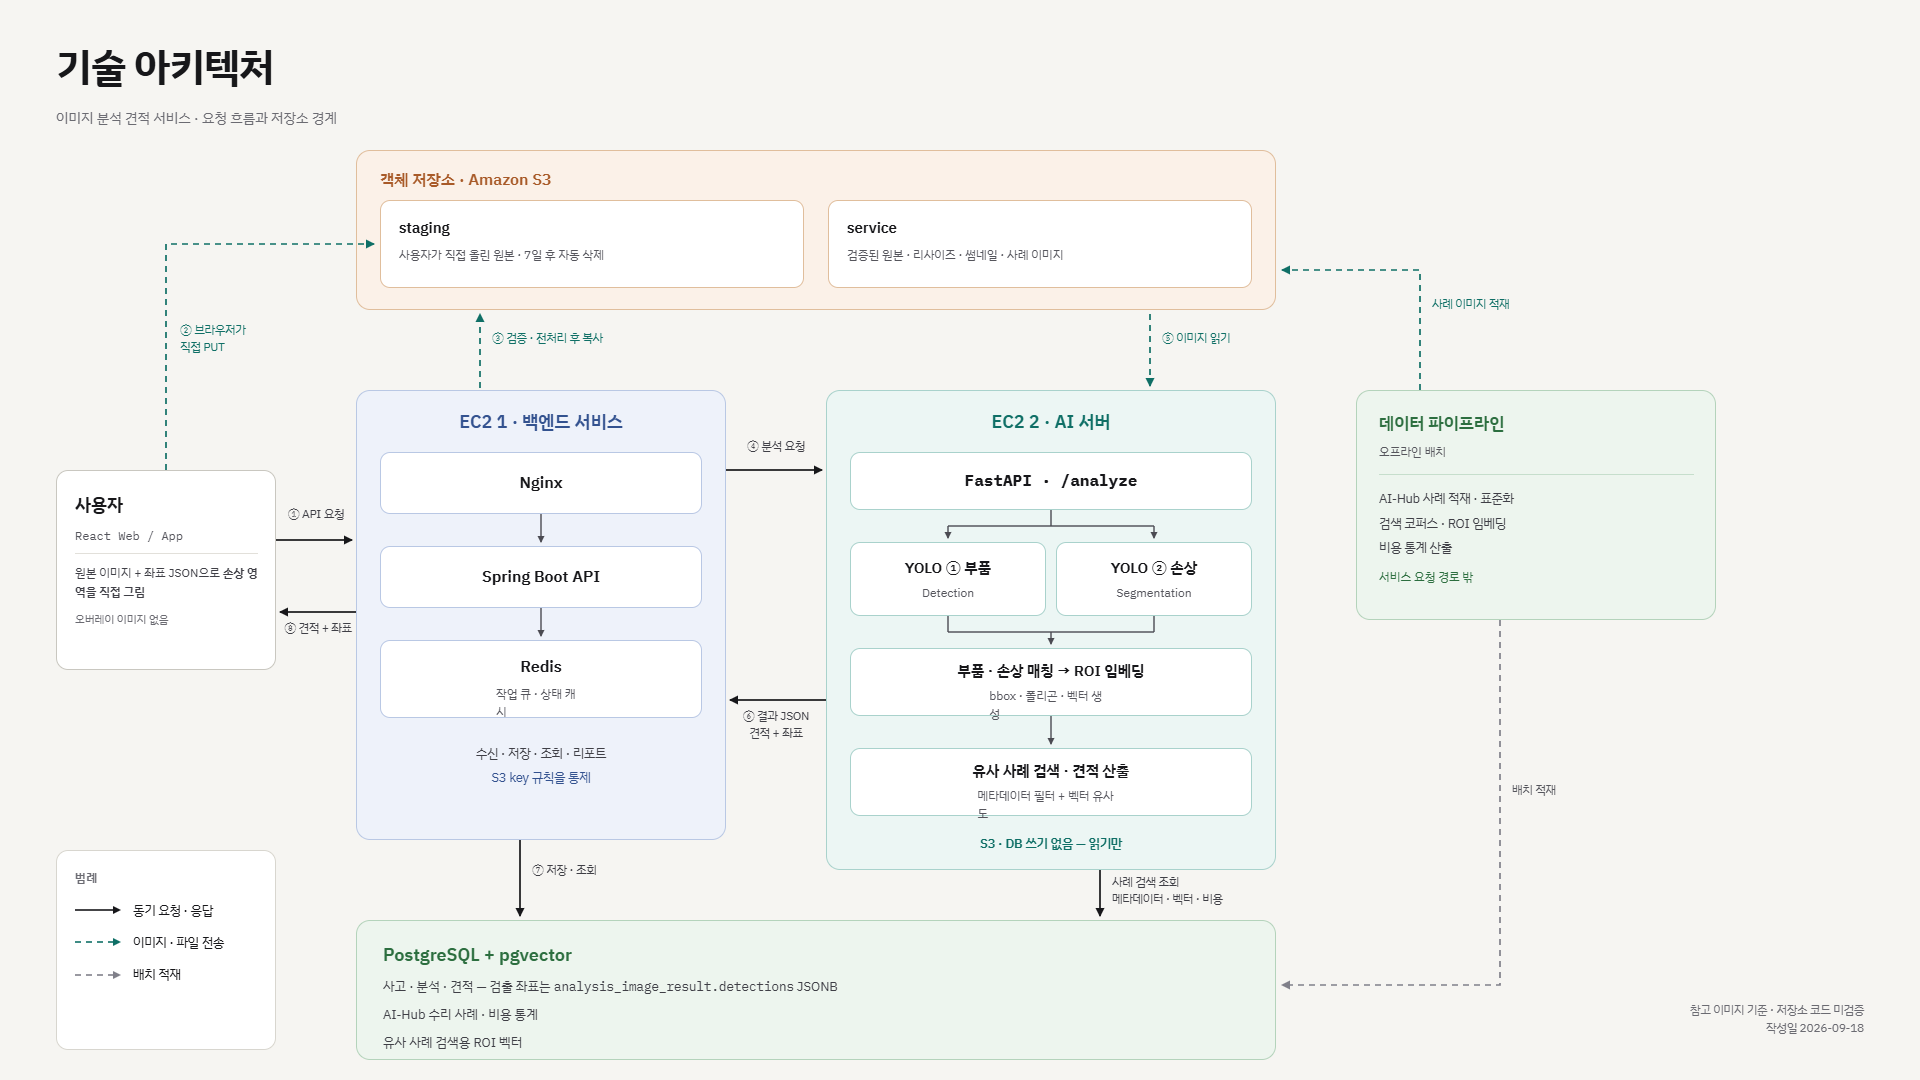
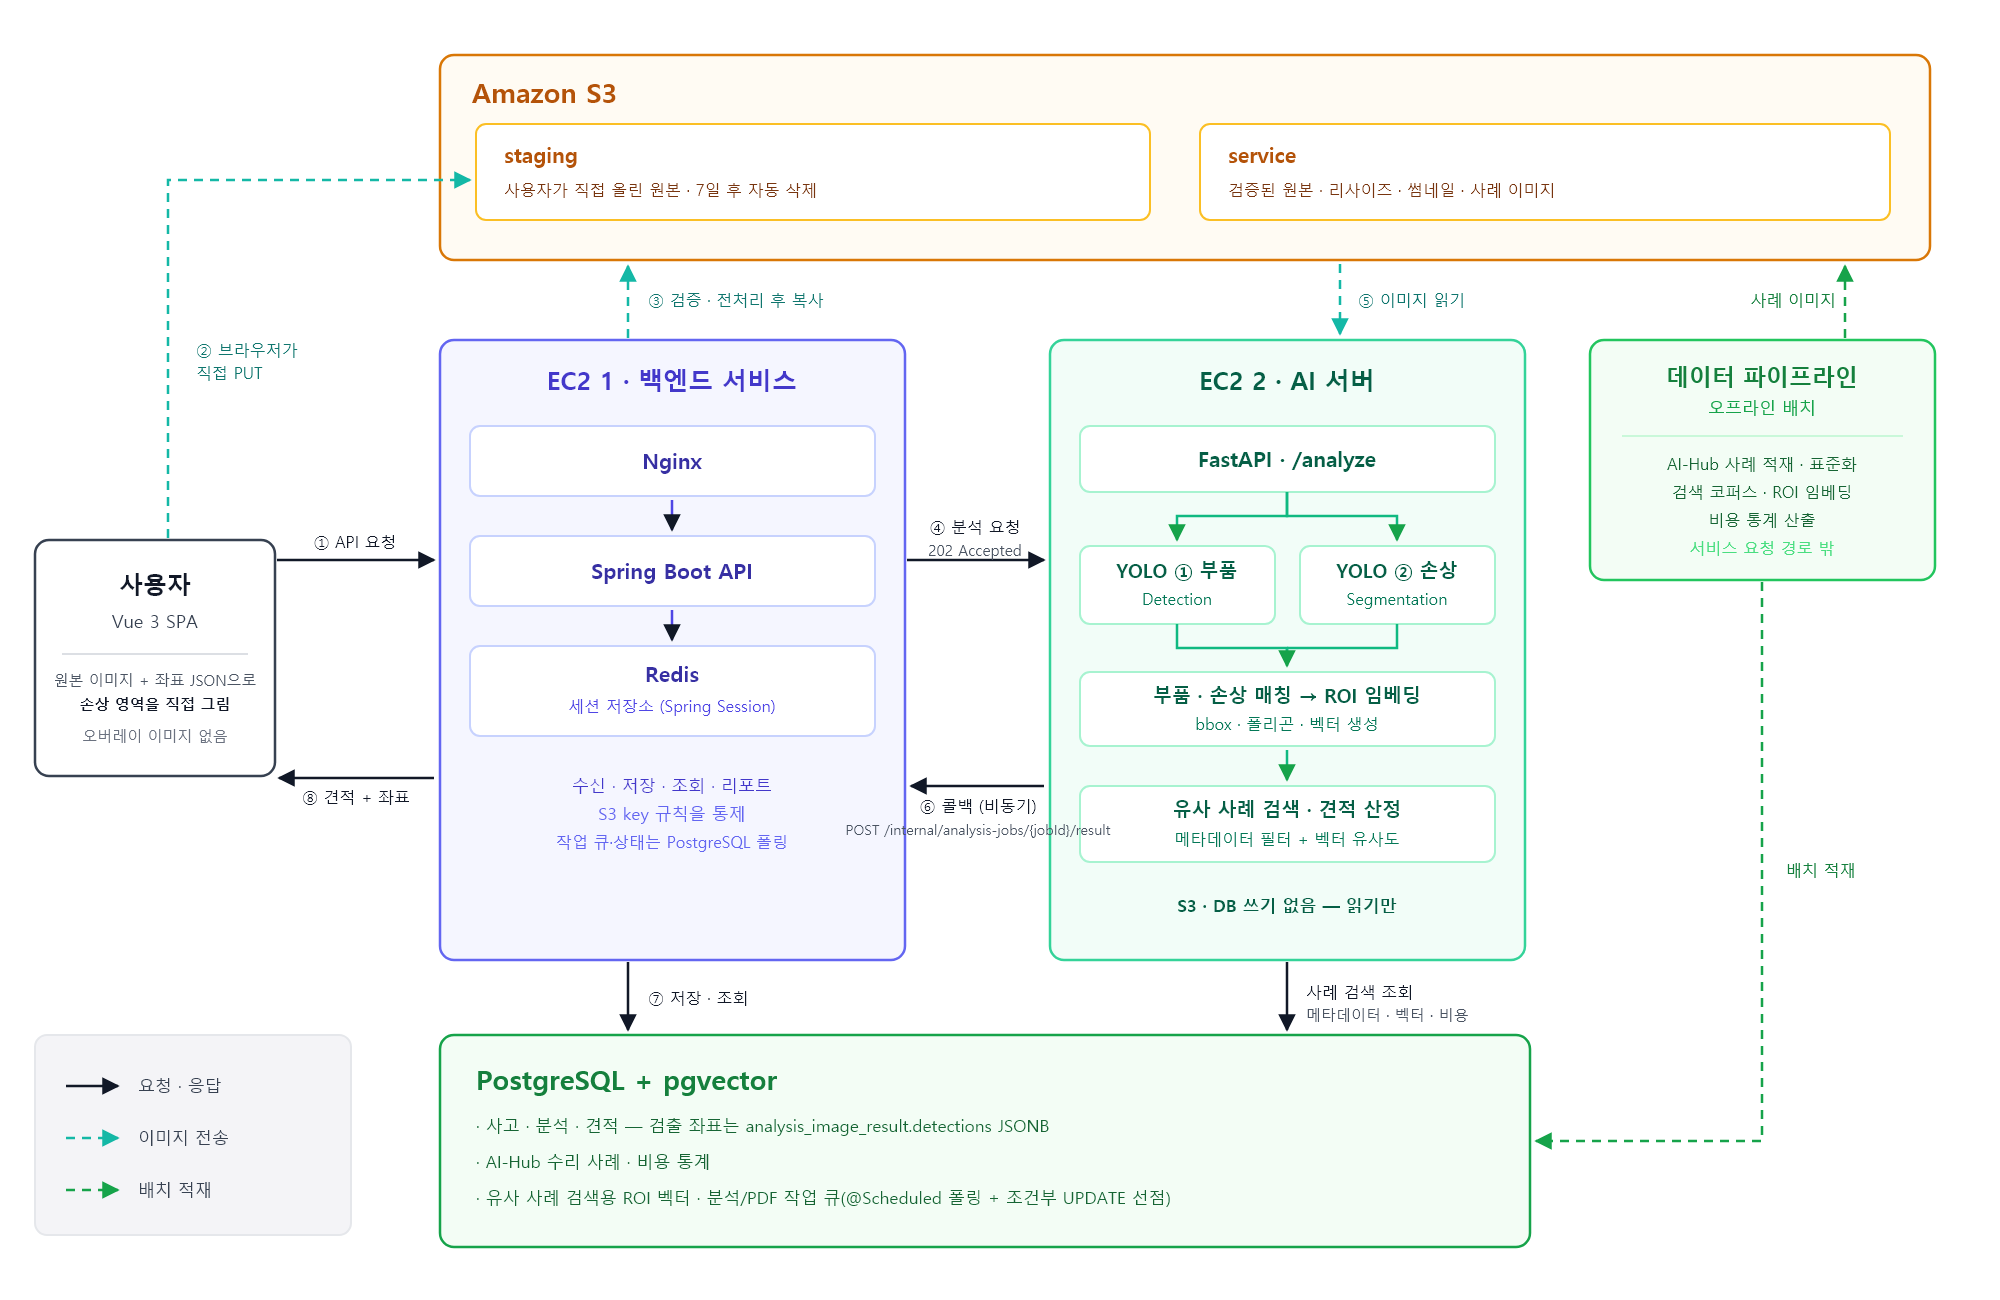
Docs: 기술 아키텍처 이미지를 코드에 맞춰 다시 그린다 (S15P21A307-546)
README 첫 화면에 들어가는 그림이 아직 "React Web / App" 이라고 말하고 있었다.
앞선 작업이 SVG 의 그 문구를 고쳤지만, README 가 표시하는 것은 PNG 이고 PNG 를
다시 내보낼 렌더러가 없어 그대로였다. 그림과 한 줄 아래 기술 스택 표가 정면으로
어긋난 채 노출돼 있었다.

기준 SVG 도 쓸 수 없는 상태였다. Mermaid 내보내기라 한글 폭 계산이 틀려 박스마다
글자가 잘렸다 — "세션 저장८", "수신 · 저장 · 조회 · 리포!", "6 결과 콜박",
"객체 저장소 · Amazon S", "AI 박스 · 172.26.4.4६". PNG 로 뽑아도 같은 상태다.

그래서 손으로 쓴 SVG 로 교체했다. foreignObject 를 쓰지 않아 글자가 잘리지 않고,
텍스트가 diff 에 남아 다음에 고칠 때 편집기를 열지 않아도 된다.

PNG 는 그 SVG 에서 직접 내보냈다. 두 파일이 같은 그림이다.

  npx svgexport Docs/Architecture/technology-architecture.svg \
                Docs/Architecture/technology-architecture.png 2000:1300

그림이 말하는 것을 코드와 대조했다.

  Vue 3 SPA                          frontend/package.json  vue ^3.5.13
  Redis — 세션 저장소                 RedisTemplate·ListOperations 사용 0건
  작업 큐·상태는 PostgreSQL 폴링      AnalysisRequestWorker·EstimatePdfWorker @Scheduled
  4 분석 요청 / 202 Accepted          AI/server/app/api/routes.py:82
  6 콜백 (비동기)                     analysis_service.py:206 → /internal/analysis-jobs/{jobId}/result
  YOLO 부품 detect · 손상 segment     inference_service.py:22,25
  S3 · DB 쓰기 없음 — 읽기만          vector_repository.py 에 INSERT/UPDATE/DELETE 0건

문서에서 "PNG 는 그대로" 경고를 지우고 재생성 명령을 적었다. 서버 종류(EC2/Lightsail)는
저장소에 IaC 가 없어 판정하지 못했고 "확인 필요" 로 남겼다.

diff --git a/Docs/Architecture/technology-architecture.md b/Docs/Architecture/technology-architecture.md
@@ -10,11 +10,16 @@
 
 ![NOCA 기술 아키텍처](./technology-architecture.png)
 
-> [!WARNING]
-> 위 PNG 는 손으로 그린 원본이며, 아래 **코드 검증 결과**에 적힌 두 항목(Redis 의 역할,
-> 서버 종류)은 현재 코드와 다르다. 정확한 구성은 이 문서의 표와 아래 Mermaid 도면을 따른다.
+위 PNG 는 편집 원본 SVG 에서 그대로 내보낸 것이다. 둘은 같은 그림이다.
 
 편집 가능한 원본: [technology-architecture.svg](./technology-architecture.svg)
+
+```bash
+npx svgexport Docs/Architecture/technology-architecture.svg Docs/Architecture/technology-architecture.png 2000:1300
+```
+
+> [!NOTE]
+> 서버 종류(EC2 / Lightsail)는 아직 확정되지 않았다. **코드 검증 결과** 표를 함께 본다.
 
 아래는 같은 구성을 코드에 맞춰 다시 그린 것이다.
 
@@ -234,7 +239,7 @@ DB 값을 고치면 다음 검색부터 반영된다 — AI 서버 재배포가 
 
 | 이미지 표현 | 실제 구현 | 코드 근거 | 비고 |
 | --- | --- | --- | --- |
-| `React Web / App` | **Vue 3.5.13, 앱 없음** | `frontend/package.json`, 네이티브·PWA 파일 없음 | **SVG 를 고쳤다.** PNG 는 그대로 |
+| `React Web / App` | **Vue 3.5.13, 앱 없음** | `frontend/package.json`, 네이티브·PWA 파일 없음 | **SVG·PNG 둘 다 고쳤다** |
 | Redis `작업 큐 · 상태 캐시` | **세션 저장소 전용** | `spring.session.data.redis.*`. `RedisTemplate`·`@Cacheable` 0건 | 큐는 `analysis_job` 테이블 |
 | `EC2 1` · `EC2 2` | **확인 필요** | 저장소에 IaC 가 없다 | 문서끼리 어긋난다(아래) |
 | 워커 6개 | **7개** | `find -name "*Worker.java"` | `-537` 이 `EstimateNarrativeWorker` 추가 |
@@ -262,5 +267,5 @@ DB 값을 고치면 다음 검색부터 반영된다 — AI 서버 재배포가 
 - **S3 `staging` 7일 lifecycle.** `application.properties` 주석에만 있고 버킷 설정은
   저장소 밖이다.
 - **AI 서버 실제 기동.** 이 환경에 `fastapi` 가 설치돼 있지 않아 import 검사조차 하지 못했다.
-- **PNG 재내보내기.** Mermaid 렌더러가 없어 SVG 수정분(Vue 문구)이 PNG 에 반영되지 않았다.
-  그래서 이미지 위에 경고를 두었다.
+- ~~**PNG 재내보내기.**~~ 2026-09-18 해결했다. `npx svgexport` 로 SVG 에서 PNG 를 다시
+  내보냈고 두 파일이 같은 그림이다.
